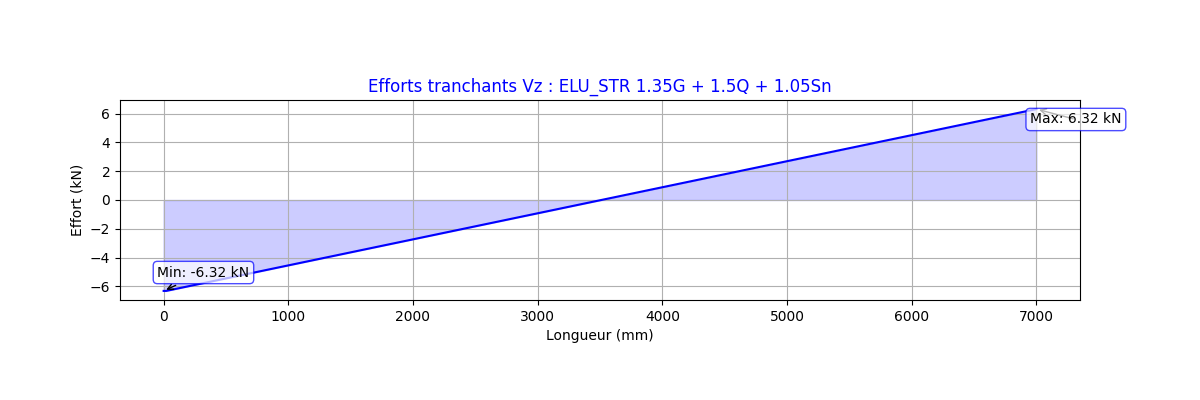
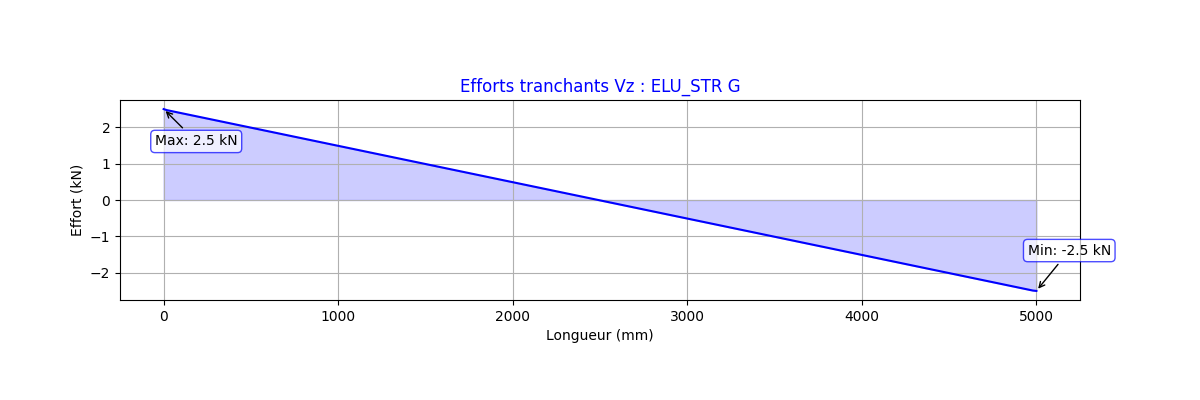
maj internal forces of MEF

diff --git a/ourocode/eurocode/A1_MEF.py b/ourocode/eurocode/A1_MEF.py
@@ -2,19 +2,20 @@
 #! env/scripts/python.exe
 #coding in UTF8
 
-import os
+import os, sys
 
 import numpy as np
 from matplotlib import pyplot as plt
 from scipy.sparse import coo_matrix, csr_matrix
 from scipy.sparse.linalg import spsolve
 
+# sys.path.append(os.path.join(os.getcwd(), "ourocode"))
+# from eurocode.EC0_Combinaison import Combinaison
+
 from ourocode.eurocode.EC0_Combinaison import Combinaison
 
 class _Base_graph(object): 
     """ Retourne un diagramme de base """
-    SAVE_PATH = os.path.join(os.getcwd(), "catalog", "data","screenshot")
-
     def __init__(self):
         self.name = "name_combi"
         self.title = ""
@@ -81,6 +82,7 @@ class _Triplets(object):
     
         
 class MEF(Combinaison, _Base_graph):
+    SAVE_PATH = os.path.join(Combinaison.PATH_CATALOG, "data","screenshot")
     def __init__(self, long: int, E: int, A: float, G: float, J: float, Iy: float, Iz: float, ele: int=500, alphaZ: float=0, alphaY: float=0, alphaX: float=0,**kwargs):
         """Classe permettant de créer des poutres MEF et de les calculer. Cette classe est hérité de l'objet Combinaison du module EC0_Combinaison.py
         Args:
@@ -614,24 +616,58 @@ class MEF(Combinaison, _Base_graph):
         vi = []
         myi = []
         for i in range(self.ele):
+            print(i)
             n1 = int(self.elementList[i,0])*6
             n2 = int(self.elementList[i,1])*6
+
+            print("noeud 1: ", n1)
+            print("noeud 2: ", n2, "\n")
             
             u1 = self.matriceU[n1-6:n1,0]
             u2 = self.matriceU[n2-6:n2,0]
 
-            effortinterneN1 = np.dot(self.k_local["eleALL"]["k11_local"],u1) + np.dot(self.k_local["eleALL"]["k12_local"], u2)
-            effortinterneN2 = np.dot(self.k_local["eleALL"]["k21_local"],u1) + np.dot(self.k_local["eleALL"]["k22_local"], u2)
+            matriceF = self.matriceF.toarray()
+            f1 = matriceF[n1-6:n1,0]
+            f2 = matriceF[n2-6:n2,0]
+
+            print("force f1: ", f1)
+            print("force f2: ", f2, "\n")
+
+            # # l = abs(int(self.node_coor[1,0]))
+            # l = abs((self.long/ self.ele))
+            
+            # # matrice de rigidité K
+            # k = self._init_matrix_K("ALL", l)
+
+            
+
+            print("déplacement noeud 1: ", u1)
+            print("déplacement noeud 2: ", u2, "\n")
+
+            effortinterneN1 = np.dot(self.k_local["eleALL"]["k11_local"],u1) + np.dot(self.k_local["eleALL"]["k12_local"], u2) - f1
+            effortinterneN2 = -(np.dot(self.k_local["eleALL"]["k21_local"],u1) + np.dot(self.k_local["eleALL"]["k22_local"], u2) - f2)
+            print(effortinterneN1)
+            print(effortinterneN2)
+
             if n1 == 6:
-                ni.append(effortinterneN2[0]/10**3)
-                vi.append(effortinterneN2[2]/10**3)
+                ni.append(effortinterneN1[0]/10**3)
+                vi.append(effortinterneN1[2]/10**3)
                 myi.append(effortinterneN1[4]/10**6)
                 
+            # else:
+            #     if round(ni[-1],3) != round(effortinterneN1[0]/10**3,3):
+            #         ni[-1] = [ni[-1], effortinterneN1[0]/10**3]
+            #     if round(vi[-1],2) != round(effortinterneN1[0]/10**3,2):
+            #         vi[-1] = [vi[-1], effortinterneN1[2]/10**3]
+            #     if round(myi[-1],6) != round(effortinterneN1[0]/10**3,6):
+            #         myi[-1] = [myi[-1], effortinterneN1[4]/10**6]
+            
             ni.append(effortinterneN2[0]/10**3)
             vi.append(effortinterneN2[2]/10**3)
             myi.append(effortinterneN2[4]/10**6)
                 
         self.ei_coor = [ni, vi, myi]
+        print(vi, myi)
         return self.ei_coor
     
 
@@ -643,30 +679,73 @@ class MEF(Combinaison, _Base_graph):
     #     print(f"la position la plus proche est {position_index[1]} mm", {"Nx": nx, "Vz": vz, "My": my})
     #     return {"Nx": nx, "Vz": vz, "My": my}
 
+    def _flatten_list_with_paths(self, nested_list, current_path=[]):
+        """
+        Aplatit une liste potentiellement imbriquée et enregistre les chemins des valeurs.
+
+        Args:
+            nested_list (list): Une liste potentiellement imbriquée de valeurs.
+            current_path (list): Le chemin actuel dans la liste imbriquée.
+
+        Returns:
+            list: Une liste de tuples contenant les valeurs et leurs chemins respectifs.
+        """
+        flat_list_with_paths = []
+        for index, item in enumerate(nested_list):
+            new_path = current_path + [index]
+            if isinstance(item, list):
+                flat_list_with_paths.extend(self._flatten_list_with_paths(item, new_path))
+            else:
+                flat_list_with_paths.append((item, new_path))
+        return flat_list_with_paths
 
     def effort_interne_max(self):
         """ Retourne les efforts min et max d'une liste d'effort interne """
 
+        def max_min_list_load(get_max: bool=True, nested_list=[]):
+            item_value = 0
+            index_item_value = 0
+            for index, item in enumerate(nested_list):
+                if isinstance(item, list):
+                    if get_max:
+                        item = max(item)
+                    else:
+                        item = min(item)
+                if get_max and (item > item_value):
+                    item_max = item
+                    index_item_value = index
+                elif not get_max and (item < item_value):
+                    item_max = item
+                    index_item_value = index
+            return item_value, index_item_value
+                
+
+        # nx_max, nx_max_index = max_min_list_load(get_max=True, nested_list=self.ei_coor[0])
         nx_max = max(self.ei_coor[0])
         nx_max_index = self.ei_coor[0].index(nx_max)
         nx_max_coor = {"Position": self.node_coor[nx_max_index,0], "Effort": nx_max}
 
+        # nx_min, nx_min_index = max_min_list_load(get_max=False, nested_list=self.ei_coor[0])
         nx_min = min(self.ei_coor[0])
         nx_min_index = self.ei_coor[0].index(nx_min)
         nx_min_coor = {"Position": self.node_coor[nx_min_index,0], "Effort": nx_min}
 
+        # vz_max, vz_max_index = max_min_list_load(get_max=True, nested_list=self.ei_coor[1])
         vz_max = max(self.ei_coor[1])
         vz_max_index = self.ei_coor[1].index(vz_max)
         vz_max_coor = {"Position": self.node_coor[vz_max_index,0], "Effort": vz_max}
 
+        # vz_min, vz_min_index = max_min_list_load(get_max=False, nested_list=self.ei_coor[1])
         vz_min = min(self.ei_coor[1])
         vz_min_index = self.ei_coor[1].index(vz_min)
         vz_min_coor = {"Position": self.node_coor[vz_min_index,0], "Effort": vz_min}
 
+        # my_max, my_max_index = max_min_list_load(get_max=True, nested_list=self.ei_coor[2])
         my_max = max(self.ei_coor[2])
         my_max_index = self.ei_coor[2].index(my_max)
         my_max_coor = {"Position": self.node_coor[my_max_index,0], "Effort": my_max}
 
+        # my_min, my_min_index = max_min_list_load(get_max=False, nested_list=self.ei_coor[2])
         my_min = min(self.ei_coor[2])
         my_min_index = self.ei_coor[2].index(my_min)
         my_min_coor = {"Position": self.node_coor[my_min_index,0], "Effort": my_min}
@@ -790,8 +869,18 @@ class MEF(Combinaison, _Base_graph):
         self.name = name_combi
         self.title = 'Efforts tranchants Vz : '
         self.color = 'b'
+        # self.x_values = []
         self.x_values = self.node_coor
         self.y_values = self.ei_coor[1]
+        # self.y_values = []
+        # for index, value in enumerate(self.ei_coor[1]):
+        #     if isinstance(value, list):
+        #         for i in range(len(value)):
+        #             self.x_values.append(self.node_coor[index,0])
+        #             self.y_values.append(value[i])
+        #     else:
+        #         self.x_values.append(self.node_coor[index,0])
+        #         self.y_values.append(value[i])
         
         dictEiMinMax = self.effort_interne_max()
         self.max_XY_values = (dictEiMinMax["Vz_max"]["Position"], dictEiMinMax["Vz_max"]["Effort"])
@@ -969,30 +1058,29 @@ if __name__ == '__main__':
     from EC0_Combinaison import Chargement
     # _list_loads = [[1, '', 'Permanente G', 'Linéique', -100, "0/6000", 'Z'],
     #              [2, '', "Neige normale Sn", 'Linéique', -200, "0/6000", 'Z']]
-    _list_loads = [[1, '', 'Permanente G', 'Linéique', -100, "0/14000", 'Z'],
-                [2, '', "Neige normale Sn", 'Linéique', -200, "0/14000", 'Z'],
-                [3, '', "Neige normale Sn", 'Linéique', -150, "0/14000", 'Z']]
+    _list_loads = [[1, '', 'Permanente G', 'Linéique', -100, "0/5000", 'Z'],
+                [2, '', "Neige normale Sn", 'Linéique', -200, "0/5000", 'Z']]
     chargement = Chargement(pays="Japon")
     chargement.create_load_by_list(_list_loads)
     c1 = Combinaison._from_parent_class(chargement, cat="Cat A : habitation", kdef=0.6)
-    print(c1.list_combination)
-    rcombi = "ELU_STR 1.35G + 1.5Sn"
+    # print(c1.list_combination)
+    rcombi = "ELU_STR G"
     print(c1.get_combi_list_load(rcombi))
-    long = 14000
-    ele = 6000
+    long = 5000
+    ele = 200
     
     b = 60
-    h = 200
+    h = 100
     a = b*h
     iy = (b*h**3)/12
     iz = (h*b**3)/12
     test = MEF._from_parent_class(c1, long=long,E=11000,A=a, G=690, J=690, Iy=iy, Iz=iz, ele=ele, alphaZ=0, alphaY=0, alphaX=0)
 
-    listdeplacement = [[1, "Simple", 0, 0],  [2, "Rotule", long, 0]]
+    listdeplacement = [[1, "Simple", 0, 0], [2, "Rotule", long, 0]]
     test.create_supports_by_list(listdeplacement)
     
     test.calcul_1D()
-    print(test.reaction_max())
-    # test.graphique(rcombi)
-    # test.show_graphique_fleche(rcombi)
-    test.show_graph_loads_and_supports()
+    # print(test.reaction_max())
+    test.graphique(rcombi)
+    test.show_graphique_fleche(rcombi)
+    # test.show_graph_loads_and_supports()

diff --git a/ourocode/eurocode/objet.py b/ourocode/eurocode/objet.py
@@ -10,10 +10,7 @@ import inspect
 from tkinter import filedialog
 
 import forallpeople as si
-import ourocode
 si.environment("structural")
-
-
 
 
 def get_package_path(package):
@@ -25,7 +22,11 @@ def get_package_path(package):
 class Objet(object):
     """Classe permetant la sauvegarde ou l'ouverture d'un objet ou de plusieur sous un fichier .ec
     """
-    PATH_CATALOG = os.path.join(get_package_path(ourocode))
+    try:
+        import ourocode
+        PATH_CATALOG = os.path.join(get_package_path(ourocode))
+    except:
+        PATH_CATALOG = os.path.join(os.getcwd(), "ourocode")
 
     def _data_from_csv(self, data_file: str, index_col=0):
             """ Retourne un dataframe d'un fichier CSV """

diff --git a/ourocode/eurocode/A0_Projet.py b/ourocode/eurocode/A0_Projet.py
@@ -1,7 +1,11 @@
 #! env\Scripts\python.exe
 # Encoding in UTF-8 by Anthony PARISOT
+import os, sys
 import forallpeople as si
 from handcalcs.decorator import handcalc
+
+# sys.path.append(os.path.join(os.getcwd(), "ourocode"))
+# from objet import Objet
 from ourocode.eurocode.objet import Objet
 
 

diff --git a/ourocode/eurocode/EC0_Combinaison.py b/ourocode/eurocode/EC0_Combinaison.py
@@ -1,8 +1,11 @@
 # coding in UTF-8 
 # by Anthony PARISOT
+import os, sys
 import numpy as np
 import pandas as pd
 
+# sys.path.append(os.path.join(os.getcwd(), "ourocode"))
+# from A0_Projet import Projet
 from ourocode.eurocode.A0_Projet import Projet
 
 
